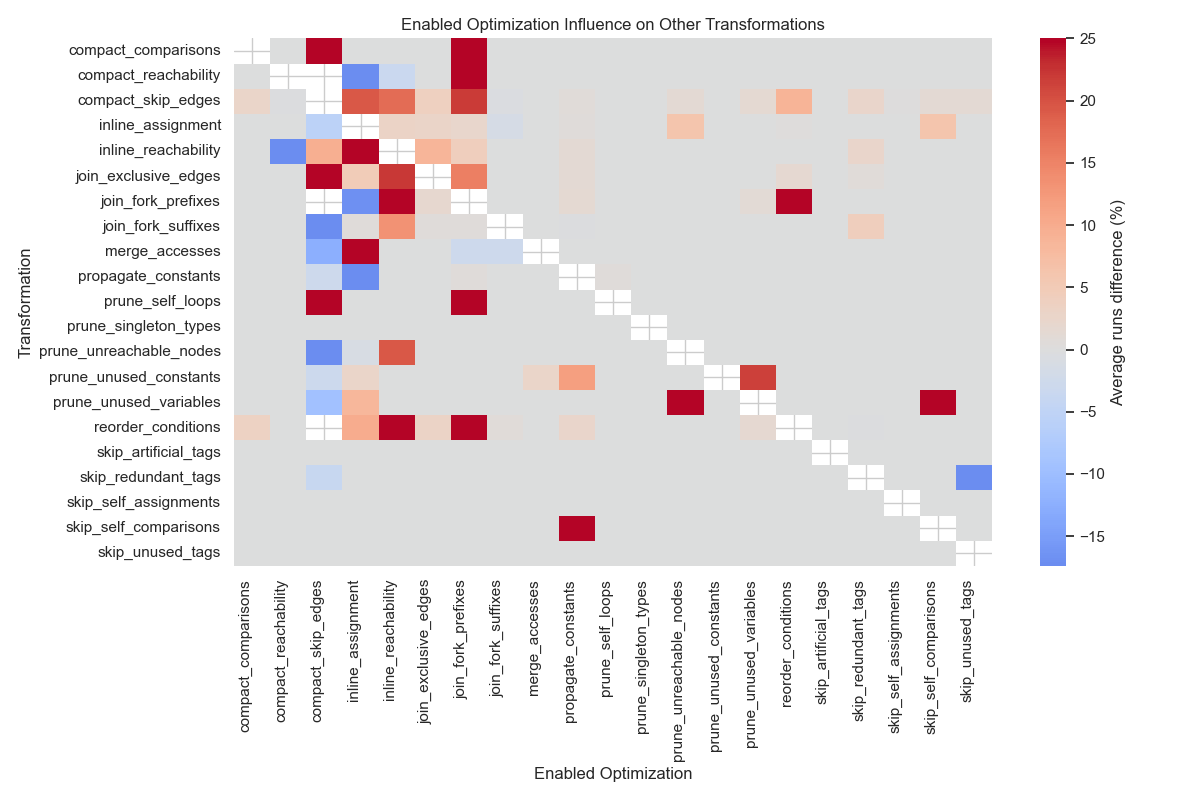
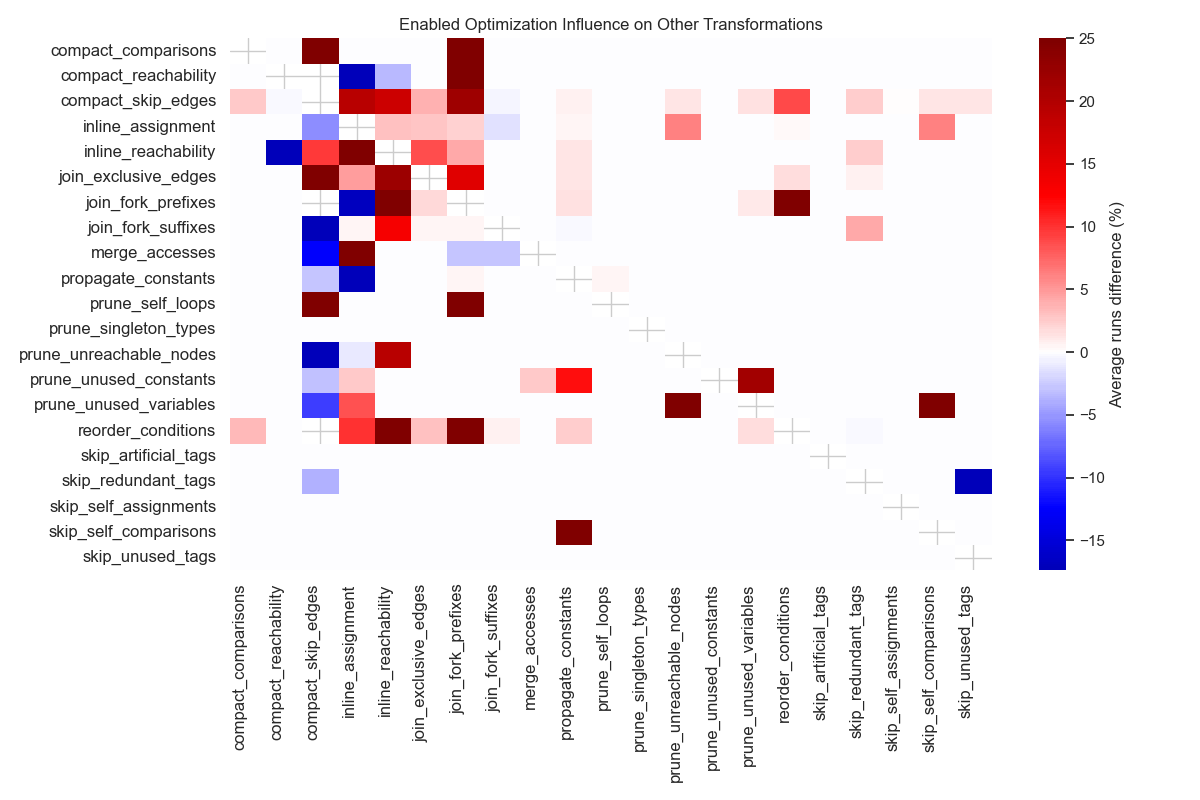
Fix plots

diff --git a/scripts/data/compilation_time_analysis.py b/scripts/data/compilation_time_analysis.py
@@ -11,7 +11,6 @@ def with_stats(df):
     stats_df = pd.read_csv("../collect/results/stats.csv")
     stats_df = stats_df[stats_df['flags'] == 'none']
     stats_df = stats_df[['game', 'language', 'edges']]
-    print(stats_df.sort_values(by=['language', 'edges'], ascending=False).head(50))
     df['total_time'] = df['total_time'] / 1000
     df = df.drop(columns=['flags', 'changed', 'transform', 'count', 'changed_time'])
     df = df.groupby(['game', 'language']).sum().reset_index()
@@ -20,16 +19,16 @@ def with_stats(df):
 
 def avg_per_edges(df):
     df = with_stats(df)
-    # Categorize edge: <50, >50, >100, >500, >1000, >2000
-    df['edge_category'] = pd.cut(df['edges'], bins=[-1, 50, 100, 500, 1000, 2000, 4000, float('inf')], labels=['<50', '>50', '>100', '>500', '>1000', '>2000', '>4000'])
-    # Add edge_category Total with everything
-    # Add 'Total' edge_category for each row (all edges for that language)
+    # Categorize edge: <50, <100, <500, <1000, <2000
+    df['edge_category'] = pd.cut(df['edges'], bins=[-1, 50, 100, 500, 1000, 2000, 4000, float('inf')], labels=['<50', '<100', '<500', '<1000', '<2000', '<4000', '>4000'])
+    # Add edge_category Average with everything
+    # Add 'Average' edge_category for each row (all edges for that language)
     df_total = df.copy()
-    df_total['edge_category'] = 'Total'
+    df_total['edge_category'] = 'Average'
     df = pd.concat([df, df_total], ignore_index=True)
-    # Add 'Total' language for each row (all languages for that edge_category)
+    # Add 'Average' language for each row (all languages for that edge_category)
     df_lang_total = df.copy()
-    df_lang_total['language'] = 'Total'
+    df_lang_total['language'] = 'Average'
     df = pd.concat([df, df_lang_total], ignore_index=True)
     df = df.drop(columns=['game', 'edges'])
     df = df.groupby(['language', 'edge_category']).mean().reset_index()
@@ -42,7 +41,7 @@ def avg_per_edges_total(df):
     df = df.pivot(index='language', columns='edge_category', values='total_time')
     # Sort rows by language
     df = df.sort_index(ascending=False)
-    labels=['<50', '>50', '>100', '>500', '>1000', '>2000', '>4000', 'Total']
+    labels=['<50', '<100', '<500', '<1000', '<2000', '<4000', '>4000', 'Average']
     # Sort columns based on labels
     df = df.round(1)
     df = df.reindex(columns=labels)

diff --git a/scripts/data/runtime_analysis.py b/scripts/data/runtime_analysis.py
@@ -27,16 +27,15 @@ def with_stats(df):
 
 def avg_per_edges(df):
     df = with_stats(df)
-    # Categorize edge: <50, >50, >100, >500, >1000, >2000
-    df['edge_category'] = pd.cut(df['edges'], bins=[-1, 50, 100, 500, 1000, 2000, 4000, float('inf')], labels=['<50', '>50', '>100', '>500', '>1000', '>2000', '>4000'])
-    # Add edge_category Total with everything
-    # Add 'Total' edge_category for each row (all edges for that language)
+    # Categorize edge: <50, <100, <500, <1000, <2000, <4000
+    df['edge_category'] = pd.cut(df['edges'], bins=[-1, 50, 100, 500, 1000, 2000, 4000, float('inf')], labels=['<50', '<100', '<500', '<1000', '<2000', '<4000', '>4000'])
+    # Add 'Average' edge_category for each row (all edges for that language)
     df_total = df.copy()
-    df_total['edge_category'] = 'Total'
+    df_total['edge_category'] = 'Average'
     df = pd.concat([df, df_total], ignore_index=True)
-    # Add 'Total' language for each row (all languages for that edge_category)
+    # Add 'Average' language for each row (all languages for that edge_category)
     df_lang_total = df.copy()
-    df_lang_total['language'] = 'Total'
+    df_lang_total['language'] = 'Average'
     df = pd.concat([df, df_lang_total], ignore_index=True)
     df = df.drop(columns=['game', 'edges'])
     df = df.groupby(['language', 'edge_category']).mean().reset_index()
@@ -49,7 +48,7 @@ def avg_per_edges_total(df):
     df = df.pivot(index='language', columns='edge_category', values='change')
     # Sort rows by language
     df = df.sort_index(ascending=False)
-    labels=['<50', '>50', '>100', '>500', '>1000', '>2000', '>4000', 'Total']
+    labels=['<50', '<100', '<500', '<1000', '<2000', '<4000', '>4000', 'Average']
     # Sort columns based on labels
     df = df.round(1)
     df = df.reindex(columns=labels)

diff --git a/scripts/data/games_analysis.py b/scripts/data/games_analysis.py
@@ -1,0 +1,38 @@
+import pandas as pd
+
+
+def with_stats():
+    df = pd.read_csv("../collect/results/stats.csv")
+    df = df[df['flags'] == 'none']
+    df = df[df['language'] != 'rg']
+    df = df[['game', 'language', 'edges']]
+    # Categorize edge: <50, <50, <100, <500, <1000, <2000
+    df['edge_category'] = pd.cut(df['edges'], bins=[-1, 50, 100, 500, 1000, 2000, 4000, float('inf')], labels=['<50', '<100', '<500', '<1000', '<2000', '<4000', '>4000'])
+    # Add edge_category Total with everything
+    # Add 'Total' edge_category for each row (all edges for that language)
+    df_total = df.copy()
+    df_total['edge_category'] = 'Total'
+    df = pd.concat([df, df_total], ignore_index=True)
+    # Add 'Total' language for each row (all languages for that edge_category)
+    df_lang_total = df.copy()
+    df_lang_total['language'] = 'Total'
+    df = pd.concat([df, df_lang_total], ignore_index=True)
+    df = df.drop(columns=['game'])
+    df = df.groupby(['language', 'edge_category']).count().reset_index()
+    # Pivot to have row per lang, with edge_category as columns
+    df = df.pivot(index='language', columns='edge_category', values='edges')
+    # Sort rows by language
+    df = df.sort_index(ascending=False)
+    # Change values to integers
+    df = df.fillna(0).astype(int)
+    labels=['<50', '<100', '<500', '<1000', '<2000', '<4000', '>4000','Total']
+    # Sort columns based on labels
+    df = df.reindex(columns=labels)
+    print(df)
+    return df
+
+def main():
+    with_stats().to_csv("results/stats_grouped.csv")
+
+if __name__ == "__main__":
+    main()

diff --git a/scripts/plots/time_spent_plot.py b/scripts/plots/time_spent_plot.py
@@ -18,6 +18,8 @@ def create_plot_big(df):
 
     plot_df['transform'] = pd.Categorical(plot_df['transform'], categories=order, ordered=True)
     plot_df = plot_df.sort_values(['transform', 'language'])
+    lang_map = {'hrg': 'HRG', 'rbg': 'RBG', 'kif': 'GDL'}
+    plot_df['language'] = plot_df['language'].map(lang_map)
 
     languages = plot_df['language'].unique()
     transforms = order
@@ -25,7 +27,7 @@ def create_plot_big(df):
     x = np.arange(len(transforms))
     width = 0.18
     # Use this palette
-    palette = {'hrg': 'cornflowerblue', 'rbg': 'orange', 'kif': 'green'}
+    palette = {'HRG': 'cornflowerblue', 'RBG': 'orange', 'GDL': 'green'}
     fig, ax = plt.subplots(figsize=(max(12, len(transforms)*0.8), 7))
 
     for i, lang in enumerate(languages):
@@ -46,9 +48,9 @@ def create_plot_big(df):
     from matplotlib.patches import Patch
     legend_patches = []
     for i, lang in enumerate(languages):
-        legend_patches.append(Patch(facecolor=f'C{i}', alpha=0.8, label=f'{lang} Changed'))
+        legend_patches.append(Patch(facecolor=palette[lang], alpha=0.8, label=f'{lang} Changed'))
     for i, lang in enumerate(languages):
-        legend_patches.append(Patch(facecolor=f'C{i}', alpha=0.3, label=f'{lang} Unchanged'))
+        legend_patches.append(Patch(facecolor=palette[lang], alpha=0.3, label=f'{lang} Unchanged'))
     ax.legend(handles=legend_patches, ncol=2)
     plt.tight_layout()
     return ax

diff --git a/scripts/plots/tws_plot.py b/scripts/plots/tws_plot.py
@@ -12,9 +12,13 @@ def create_plot_big(df):
     # I have 4 columsn: transform, rbg, hrg, kif (3 values)
     # Give me a bar plot, 3 bars for each transform
     df_melted = df.melt(id_vars=['transform'], value_vars=['rbg', 'hrg', 'kif'], var_name='language', value_name='changed_time_perc')
+    df_melted = df_melted[df_melted['changed_time_perc'] > 1.0]
     plt.figure(figsize=(12, 6))
     # Let hrg be light blue, rbg orange and kif green
-    palette = {'hrg': 'cornflowerblue', 'rbg': 'orange', 'kif': 'green'}
+    # Change hrg to HRG, rbg to RBG, and kif to GDL
+    lang_map = {'hrg': 'HRG', 'rbg': 'RBG', 'kif': 'GDL'}
+    palette = {'HRG': 'cornflowerblue', 'RBG': 'orange', 'GDL': 'green'}
+    df_melted['language'] = df_melted['language'].map(lang_map)
     sns.barplot(data=df_melted, x='transform', y='changed_time_perc', hue='language', palette=palette, errorbar=None)
     plt.title('Time Well Spent on Each Transformation')
     plt.ylabel('% Time Spent on Changing Passes')

diff --git a/scripts/plots/flags_influence_plot.py b/scripts/plots/flags_influence_plot.py
@@ -37,11 +37,14 @@ def create_plot(df, language=None):
         fill_value=None
     )
     plt.figure(figsize=(12, 8))
-    ax = sns.heatmap(pivot_table, robust=True, annot=False, cmap="coolwarm", cbar_kws={'label': 'Average runs difference (%)'}, center=0)
+    ax = sns.heatmap(pivot_table, robust=True, annot=False, cmap="seismic", cbar_kws={'label': 'Average runs difference (%)'}, center=0)
     ax.set_title(f"Enabled Optimization Influence on Other Transformations")
-    ax.set_xlabel("Enabled Optimization")
-    ax.set_ylabel("Transformation") 
-    plt.xticks(rotation=90, ha='right')
+    # ax.set_xlabel("Enabled Optimization")
+    # ax.set_ylabel("Transformation")
+    ax.set_xlabel("")
+    ax.set_ylabel("")
+    plt.yticks(rotation=0, fontsize=12)
+    plt.xticks(rotation=90, ha='right', fontsize=12)
     plt.tight_layout()
     plt.show()    
 

diff --git a/scripts/plots/flags_metrics_influence_plot.py b/scripts/plots/flags_metrics_influence_plot.py
@@ -31,11 +31,14 @@ def create_plot(df, language=None):
     sns.set_theme(style="whitegrid")
     
     plt.figure(figsize=(12, 8))
-    ax = sns.heatmap(df,robust=True, annot=False, fmt=".2f", cmap="coolwarm", cbar_kws={'label': 'Average Change (%)'}, center=0)
+    ax = sns.heatmap(df,robust=True, annot=False, fmt=".2f", cmap="seismic", cbar_kws={'label': 'Average Change (%)'}, center=0)
     ax.set_title(f"Optimization Influence on Metrics")
-    ax.set_xlabel("Optimization")
-    ax.set_ylabel("Metric") 
-    plt.xticks(rotation=90, ha='right')
+    # ax.set_xlabel("Optimization")
+    # ax.set_ylabel("Metric") 
+    ax.set_xlabel("")
+    ax.set_ylabel("")
+    plt.xticks(rotation=90, ha='right', fontsize=12)
+    plt.yticks(rotation=0, fontsize=12)
     plt.tight_layout()
     plt.show()
 
